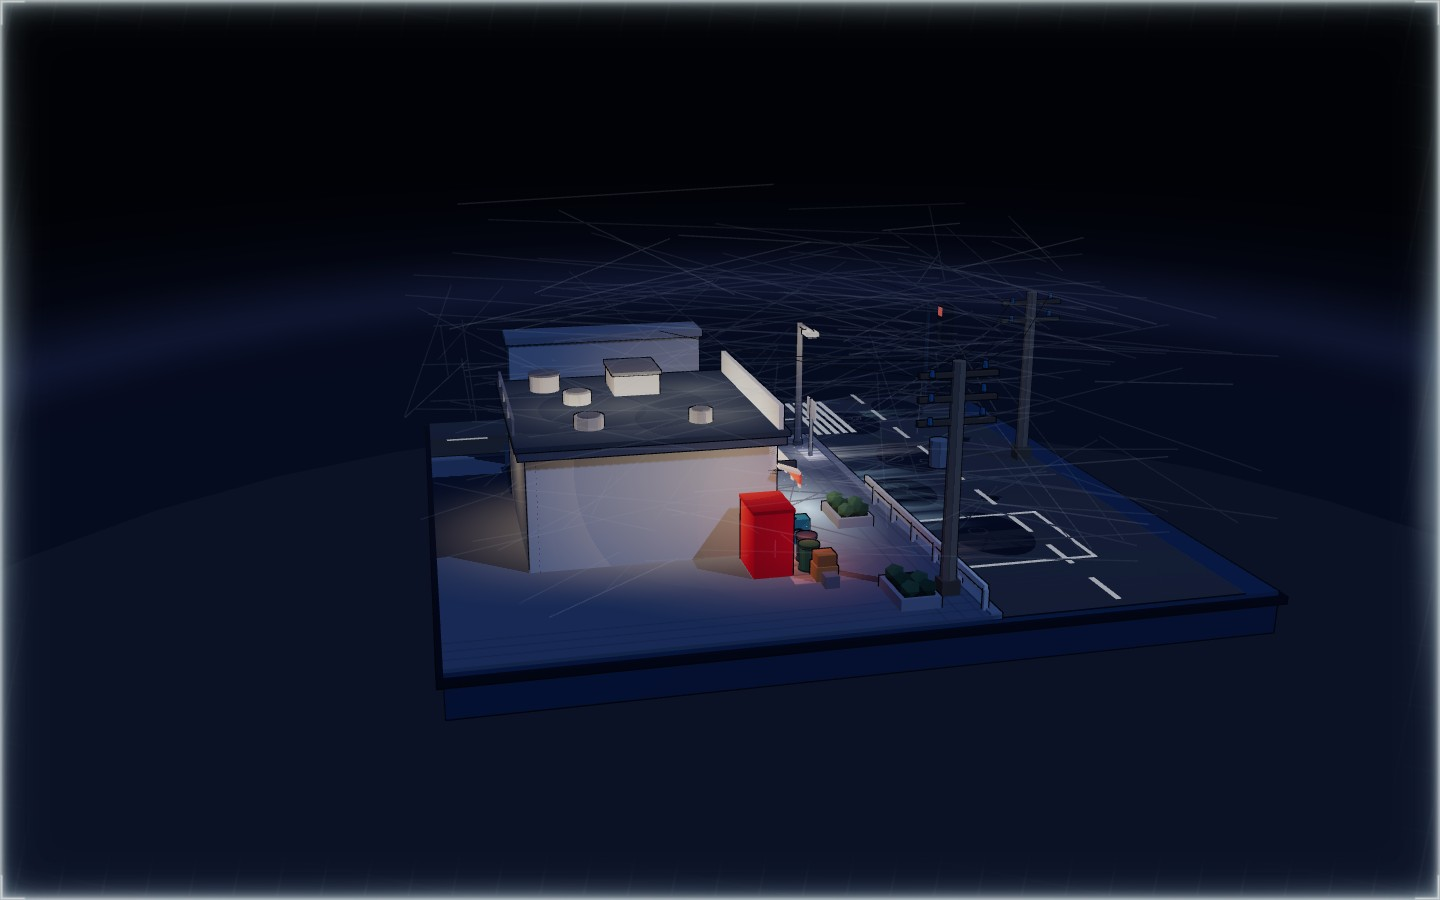
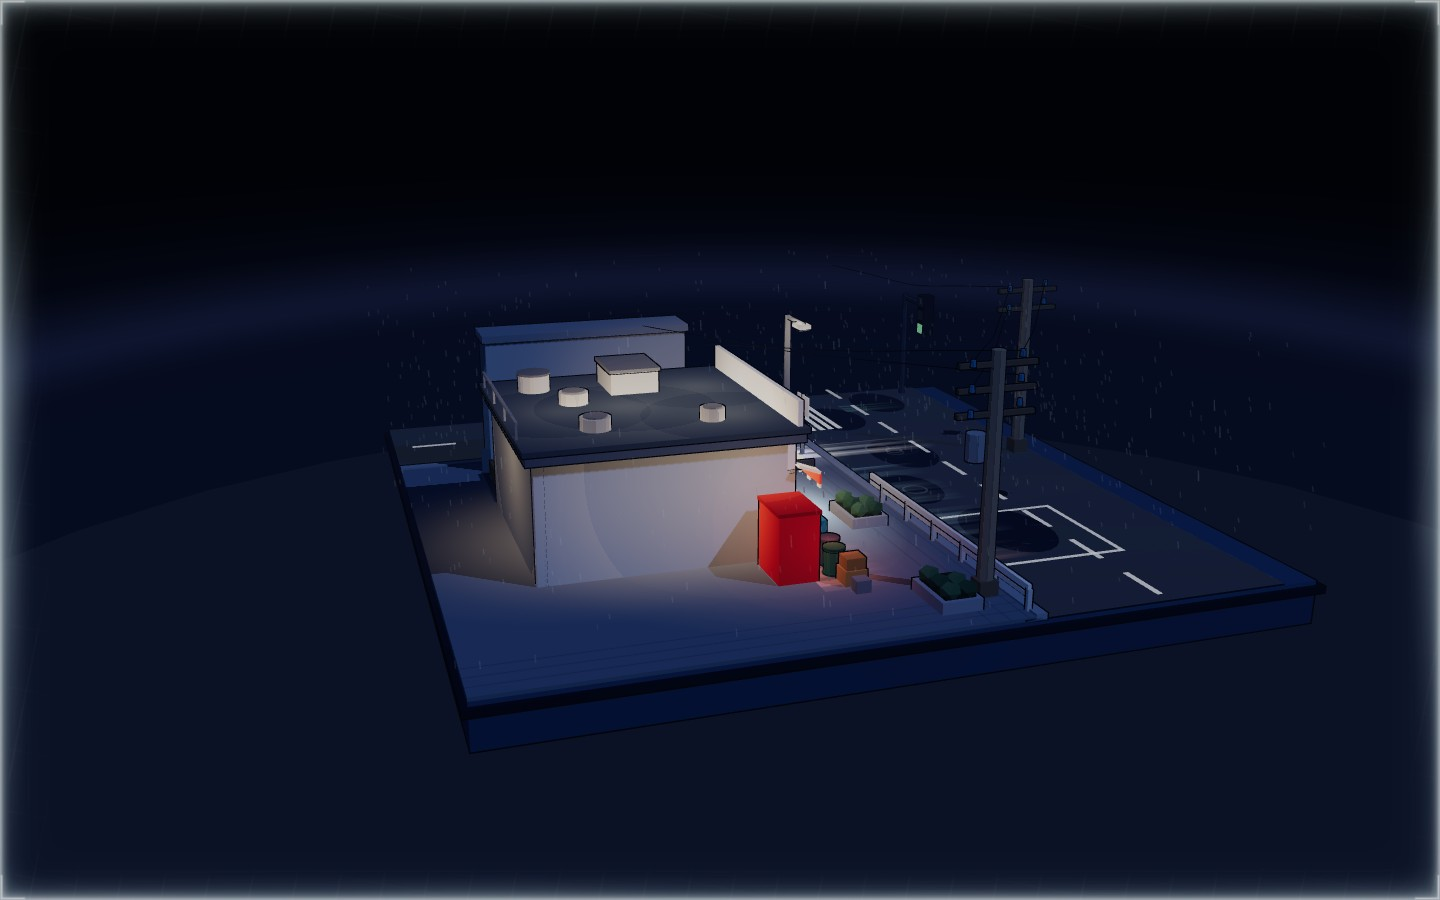
fix: archive corrected rainy konbini candidate

diff --git a/tasks/rainy-konbini-diorama/solutions/minimax-m3.1-flash-preview/src/parts/weather.js b/tasks/rainy-konbini-diorama/solutions/minimax-m3.1-flash-preview/src/parts/weather.js
@@ -4,7 +4,7 @@ import { STORE } from './store.js';
 
 // Everything that moves. All state is preallocated in build(); update() only
 // writes into existing typed arrays and reuses scratch objects.
-const RAIN_COUNT = 130;
+const RAIN_COUNT = 720;
 const DRIP_COUNT = 70;
 const RIPPLE_COUNT = 30;
 
@@ -29,53 +29,84 @@ export function buildWeather(scene, refs) {
   group.name = 'weather';
 
   // ---- rain ---------------------------------------------------------------
+  // Rain has to read as DENSITY, not as individual streaks. A sparse set of
+  // long, equally bright lines crossing in screen space reads as a spider web,
+  // so: many short drops, all tilted the same way by wind, each with its own
+  // brightness so depth still separates near from far, confined to a band that
+  // hugs the diorama rather than filling the empty sky above it.
   const rainPos = new Float32Array(RAIN_COUNT * 2 * 3);
+  const rainCol = new Float32Array(RAIN_COUNT * 2 * 3);
+  const rainX = new Float32Array(RAIN_COUNT);
   const rainY = new Float32Array(RAIN_COUNT);
+  const rainZ = new Float32Array(RAIN_COUNT);
   const rainSpeed = new Float32Array(RAIN_COUNT);
   const rainLen = new Float32Array(RAIN_COUNT);
-  const DROP_TOP = 6.5;
+  const DROP_TOP = 4.6;
+  // Shared wind: every drop leans the same way, so the field reads as weather
+  // rather than as a set of unrelated lines. Declared before the seeding loop
+  // below, which calls placeDrop.
+  const WIND_X = 0.055;
   for (let i = 0; i < RAIN_COUNT; i += 1) {
     rainY[i] = Math.random() * DROP_TOP;
-    rainSpeed[i] = 8 + Math.random() * 9;
-    rainLen[i] = 0.1 + Math.random() * 0.14;
-    placeDrop(rainPos, i, rainY[i], rainLen[i]);
+    rainSpeed[i] = 7 + Math.random() * 7;
+    rainLen[i] = 0.09 + Math.random() * 0.1;
+    placeDrop(rainPos, i, rainY[i], rainLen[i], rainX, rainZ);
+    // Brighter drops read as nearer, which is what stops the field flattening
+    // into one uniform sheet.
+    const b = 0.3 + Math.random() * 0.7;
+    const o = i * 6;
+    rainCol[o] = rainCol[o + 3] = 0.62 * b;
+    rainCol[o + 1] = rainCol[o + 4] = 0.75 * b;
+    rainCol[o + 2] = rainCol[o + 5] = 0.91 * b;
   }
   const rainGeo = new THREE.BufferGeometry();
   rainGeo.setAttribute('position', new THREE.BufferAttribute(rainPos, 3));
-  const rainMat = new THREE.LineBasicMaterial({ color: 0x9fc0e8, transparent: true, opacity: 0.1 });
+  rainGeo.setAttribute('color', new THREE.BufferAttribute(rainCol, 3));
+  const rainMat = new THREE.LineBasicMaterial({
+    vertexColors: true,
+    transparent: true,
+    opacity: 0.12,
+  });
   const rain = new THREE.LineSegments(rainGeo, rainMat);
   rain.frustumCulled = false;
   group.add(rain);
 
-  function placeDrop(arr, i, y, len) {
+  function placeDrop(arr, i, y, len, xs, zs) {
     let x;
     let z;
     do {
       x = (Math.random() - 0.5) * 23;
       z = (Math.random() - 0.5) * 23;
     } while (sheltered(x, z));
+    xs[i] = x;
+    zs[i] = z;
     const o = i * 6;
     arr[o] = x;
     arr[o + 1] = y;
     arr[o + 2] = z;
-    arr[o + 3] = x + 0.05;
+    arr[o + 3] = x + WIND_X;
     arr[o + 4] = y + len;
     arr[o + 5] = z;
   }
 
-  // A brighter, sparser near layer gives the rain some depth.
-  const NEAR_COUNT = 34;
+  // A slightly brighter, faster near layer for parallax. Kept short and low:
+  // long bright drops are what turned this into a visible net.
+  const NEAR_COUNT = 40;
+  const NEAR_LEN = 0.3;
+  const NEAR_TOP = 4.2;
   const nearPos = new Float32Array(NEAR_COUNT * 2 * 3);
+  const nearX = new Float32Array(NEAR_COUNT);
   const nearY = new Float32Array(NEAR_COUNT);
+  const nearZ = new Float32Array(NEAR_COUNT);
   const nearSpeed = new Float32Array(NEAR_COUNT);
   for (let i = 0; i < NEAR_COUNT; i += 1) {
-    nearY[i] = Math.random() * 9;
-    nearSpeed[i] = 14 + Math.random() * 8;
-    placeDrop(nearPos, i, nearY[i], 0.6);
+    nearY[i] = Math.random() * NEAR_TOP;
+    nearSpeed[i] = 12 + Math.random() * 7;
+    placeDrop(nearPos, i, nearY[i], NEAR_LEN, nearX, nearZ);
   }
   const nearGeo = new THREE.BufferGeometry();
   nearGeo.setAttribute('position', new THREE.BufferAttribute(nearPos, 3));
-  const near = new THREE.LineSegments(nearGeo, new THREE.LineBasicMaterial({ color: 0xcfe2ff, transparent: true, opacity: 0.14 }));
+  const near = new THREE.LineSegments(nearGeo, new THREE.LineBasicMaterial({ color: 0xcfe2ff, transparent: true, opacity: 0.16 }));
   near.frustumCulled = false;
   group.add(near);
 
@@ -130,37 +161,47 @@ export function buildWeather(scene, refs) {
 
   function update(time, dt) {
     // Rain: fall and wrap, skipping sheltered footprints.
+    // Both vertices of every segment are rewritten from the same x/y/z each
+    // frame. Writing only the first vertex on respawn left the second stranded
+    // at its old position, which stretched each recycled drop into a long line
+    // across the scene — the crossed lines were what read as a spider web.
     for (let i = 0; i < RAIN_COUNT; i += 1) {
       rainY[i] -= rainSpeed[i] * dt;
       if (rainY[i] < 0) {
-        rainY[i] = DROP_TOP + Math.random() * 2;
+        rainY[i] = DROP_TOP + Math.random() * 1.5;
         let x;
         let z;
         do {
           x = (Math.random() - 0.5) * 23;
           z = (Math.random() - 0.5) * 23;
         } while (sheltered(x, z));
-        const o = i * 6;
-        rainPos[o] = x;
-        rainPos[o + 2] = z;
+        rainX[i] = x;
+        rainZ[i] = z;
       }
       const o = i * 6;
+      rainPos[o] = rainX[i];
       rainPos[o + 1] = rainY[i];
+      rainPos[o + 2] = rainZ[i];
+      rainPos[o + 3] = rainX[i] + WIND_X;
       rainPos[o + 4] = rainY[i] + rainLen[i];
+      rainPos[o + 5] = rainZ[i];
     }
     rainGeo.attributes.position.needsUpdate = true;
 
     for (let i = 0; i < NEAR_COUNT; i += 1) {
       nearY[i] -= nearSpeed[i] * dt;
       if (nearY[i] < 0) {
-        nearY[i] = 8 + Math.random() * 1.5;
-        const o = i * 6;
-        nearPos[o] = (Math.random() - 0.5) * 20;
-        nearPos[o + 2] = (Math.random() - 0.5) * 20;
+        nearY[i] = NEAR_TOP + Math.random() * 1.2;
+        nearX[i] = (Math.random() - 0.5) * 20;
+        nearZ[i] = (Math.random() - 0.5) * 20;
       }
       const o = i * 6;
+      nearPos[o] = nearX[i];
       nearPos[o + 1] = nearY[i];
-      nearPos[o + 4] = nearY[i] + 0.34;
+      nearPos[o + 2] = nearZ[i];
+      nearPos[o + 3] = nearX[i] + WIND_X;
+      nearPos[o + 4] = nearY[i] + NEAR_LEN;
+      nearPos[o + 5] = nearZ[i];
     }
     nearGeo.attributes.position.needsUpdate = true;
 

diff --git a/tasks/rainy-konbini-diorama/solutions/minimax-m3.1-flash-preview/RESULTS.md b/tasks/rainy-konbini-diorama/solutions/minimax-m3.1-flash-preview/RESULTS.md
@@ -103,6 +103,35 @@ Three `THREE.Material: parameter 'transparent' has value of undefined` warnings
 from `flat()` (`false || undefined`) and a removed-API warning for
 `PCFSoftShadowMap` were also resolved. The final build loads with a clean console.
 
+## Correction after review — the rain rendered as a spider web
+
+The user reviewed the published candidate and reported that the rain looked like
+a spider web falling through the scene. It did, and there were two independent
+causes:
+
+1. **Recycled drops were stretched into long lines.** The rain update loop wrote
+   only the *first* vertex of each line segment on respawn and left the second
+   vertex at its old position. Every drop that reached the ground was therefore
+   redrawn as a segment running from its new location back to wherever it had
+   been, potentially across the whole 23-unit volume. Those accumulated into a
+   mesh of crossing lines. Both vertices are now rewritten every frame from a
+   single source of truth (`rainX`/`rainY`/`rainZ`), which removes the whole
+   class of bug.
+2. **The field was too sparse and too long to read as weather.** 130 drops of
+   0.1–0.24 units, all identically bright, spread over a volume reaching y = 6.5
+   — above the horizon, where the rain had nothing to sit against and read as
+   floating wire. Rain now uses 720 drops of 0.09–0.19 units at opacity 0.12,
+   confined to y ≤ 4.6, each with its own brightness via vertex colours so near
+   and far still separate, all leaning the same way on a shared wind vector.
+   The faster near-parallax layer was shortened from 0.6 to 0.3 units and pulled
+   down from y ≤ 9 to y ≤ 4.2; those long bright drops were the most visible
+   part of the net.
+
+The corrected candidate is committed separately and the original archive tag is
+left untouched; see the supersession note in `imports.json`. All evidence
+screenshots were recaptured after the fix.
+
+
 ## Known limitations
 
 - Requires a WebGL-capable browser.
